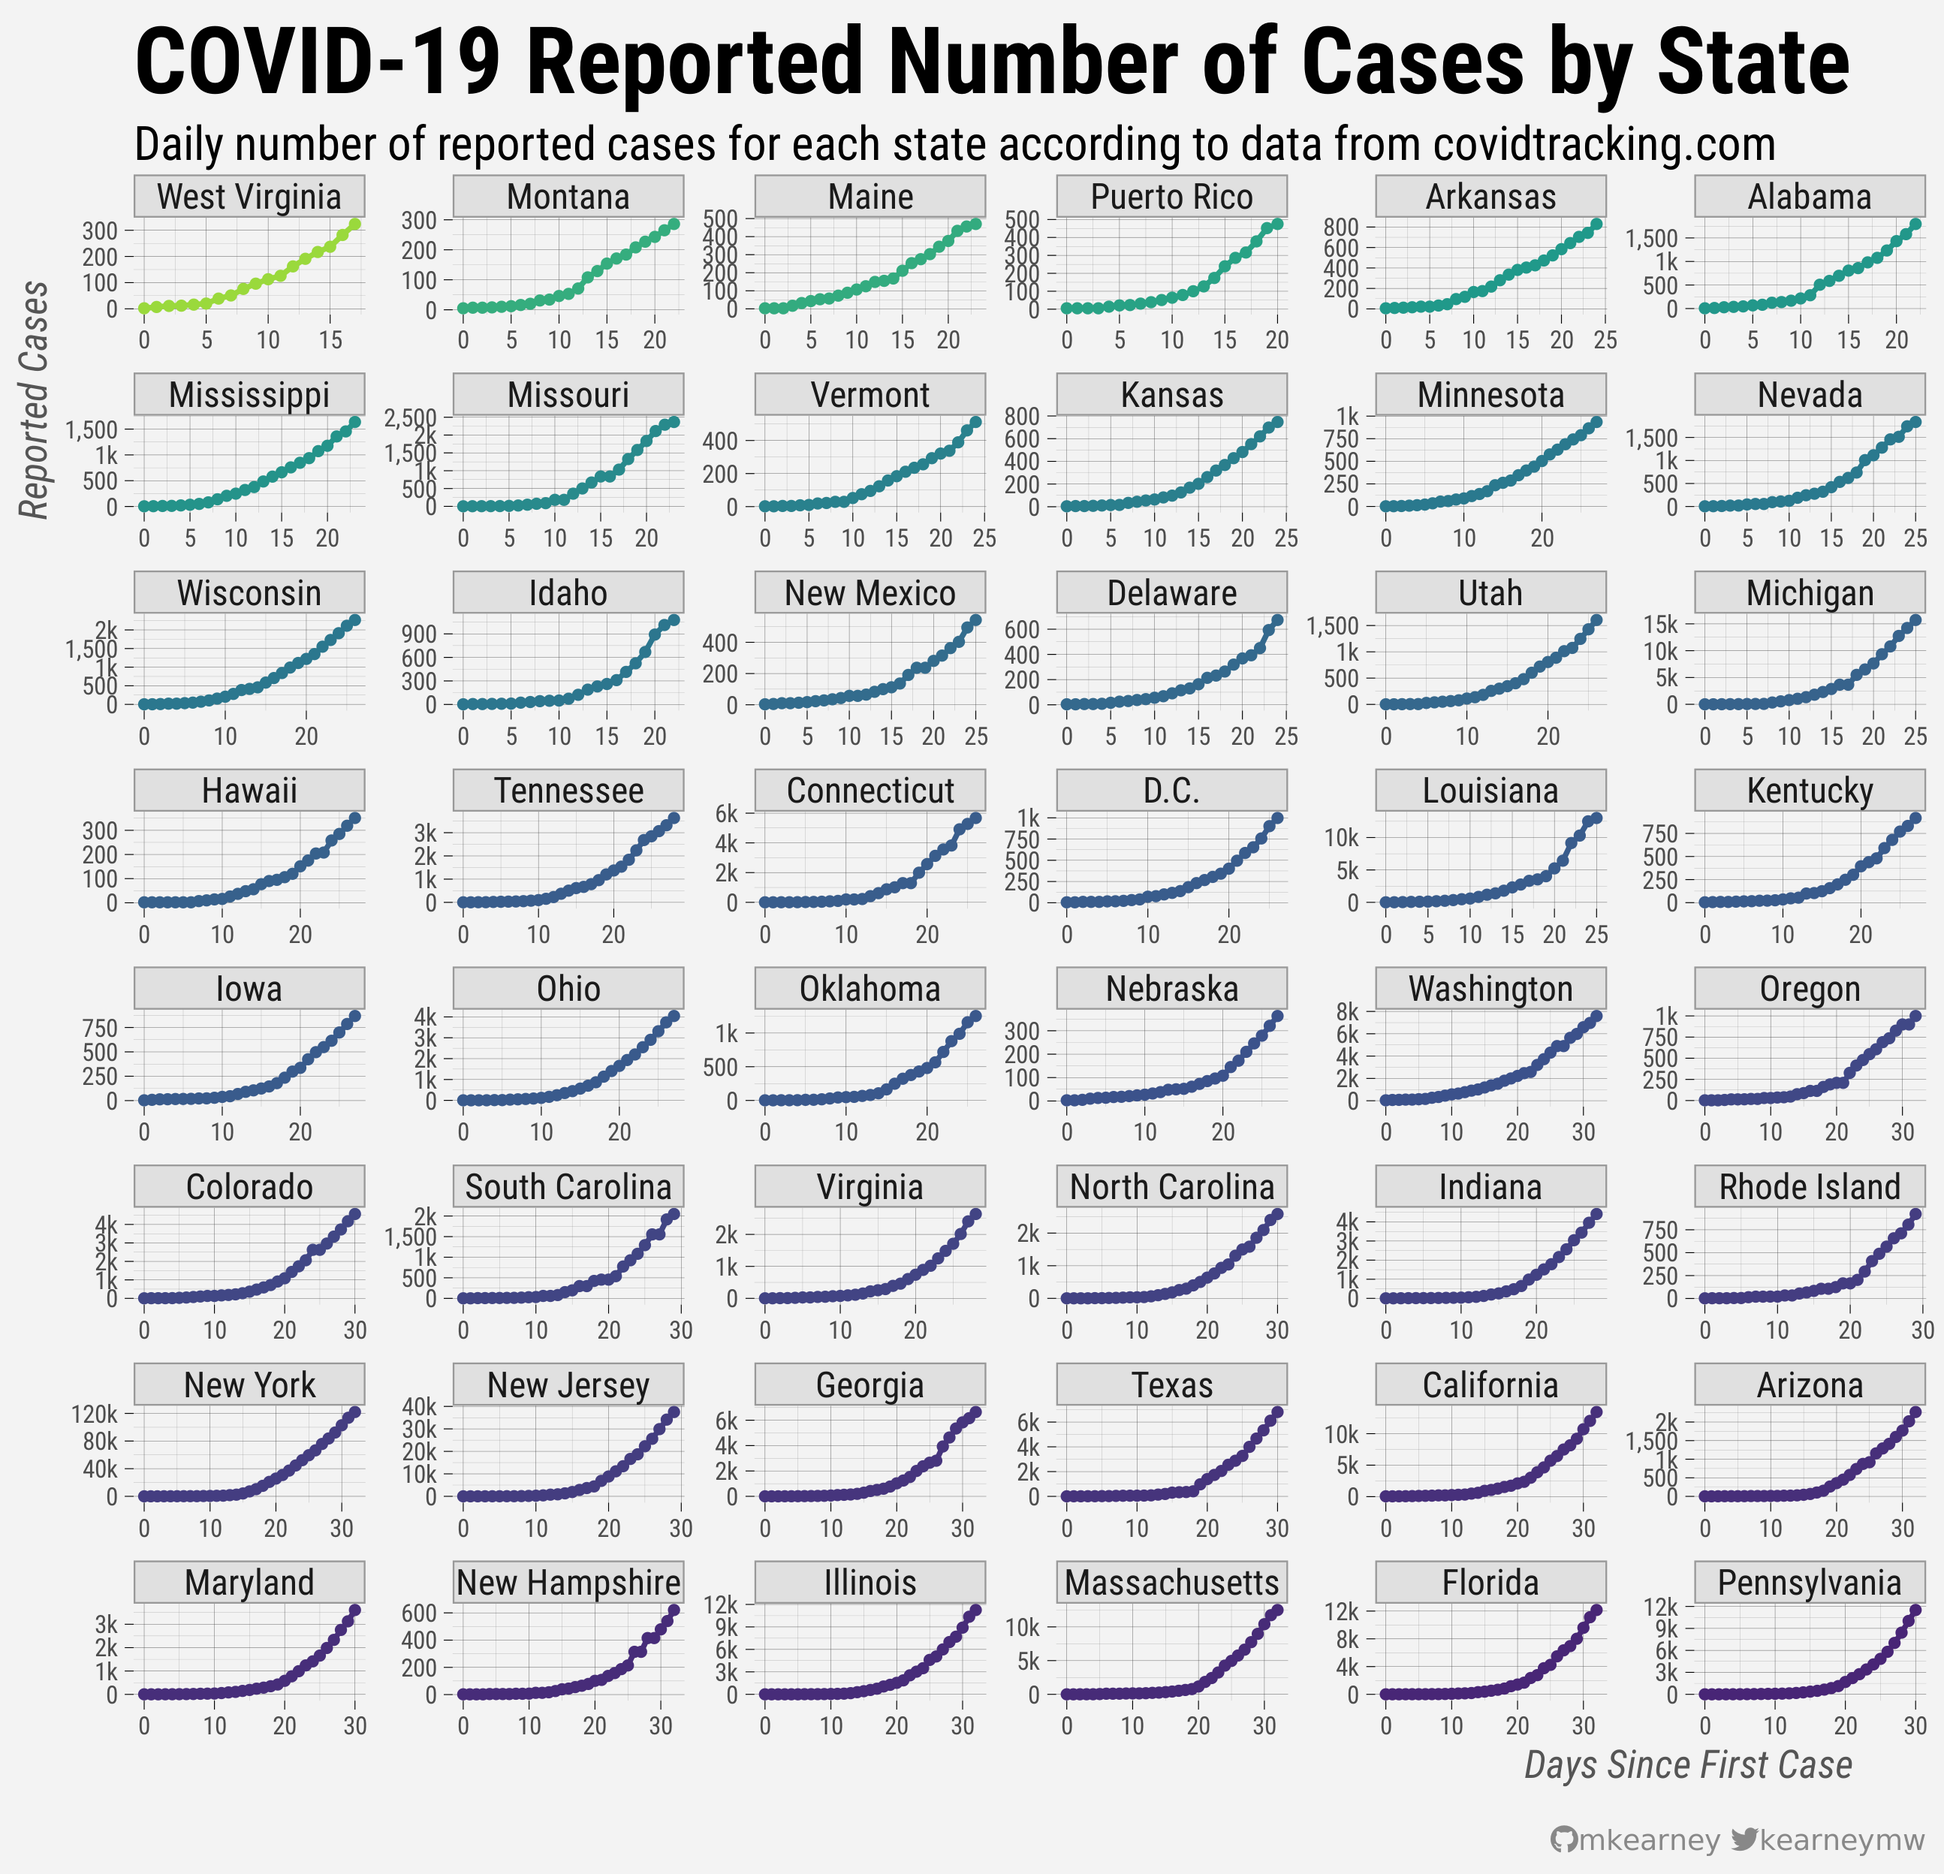
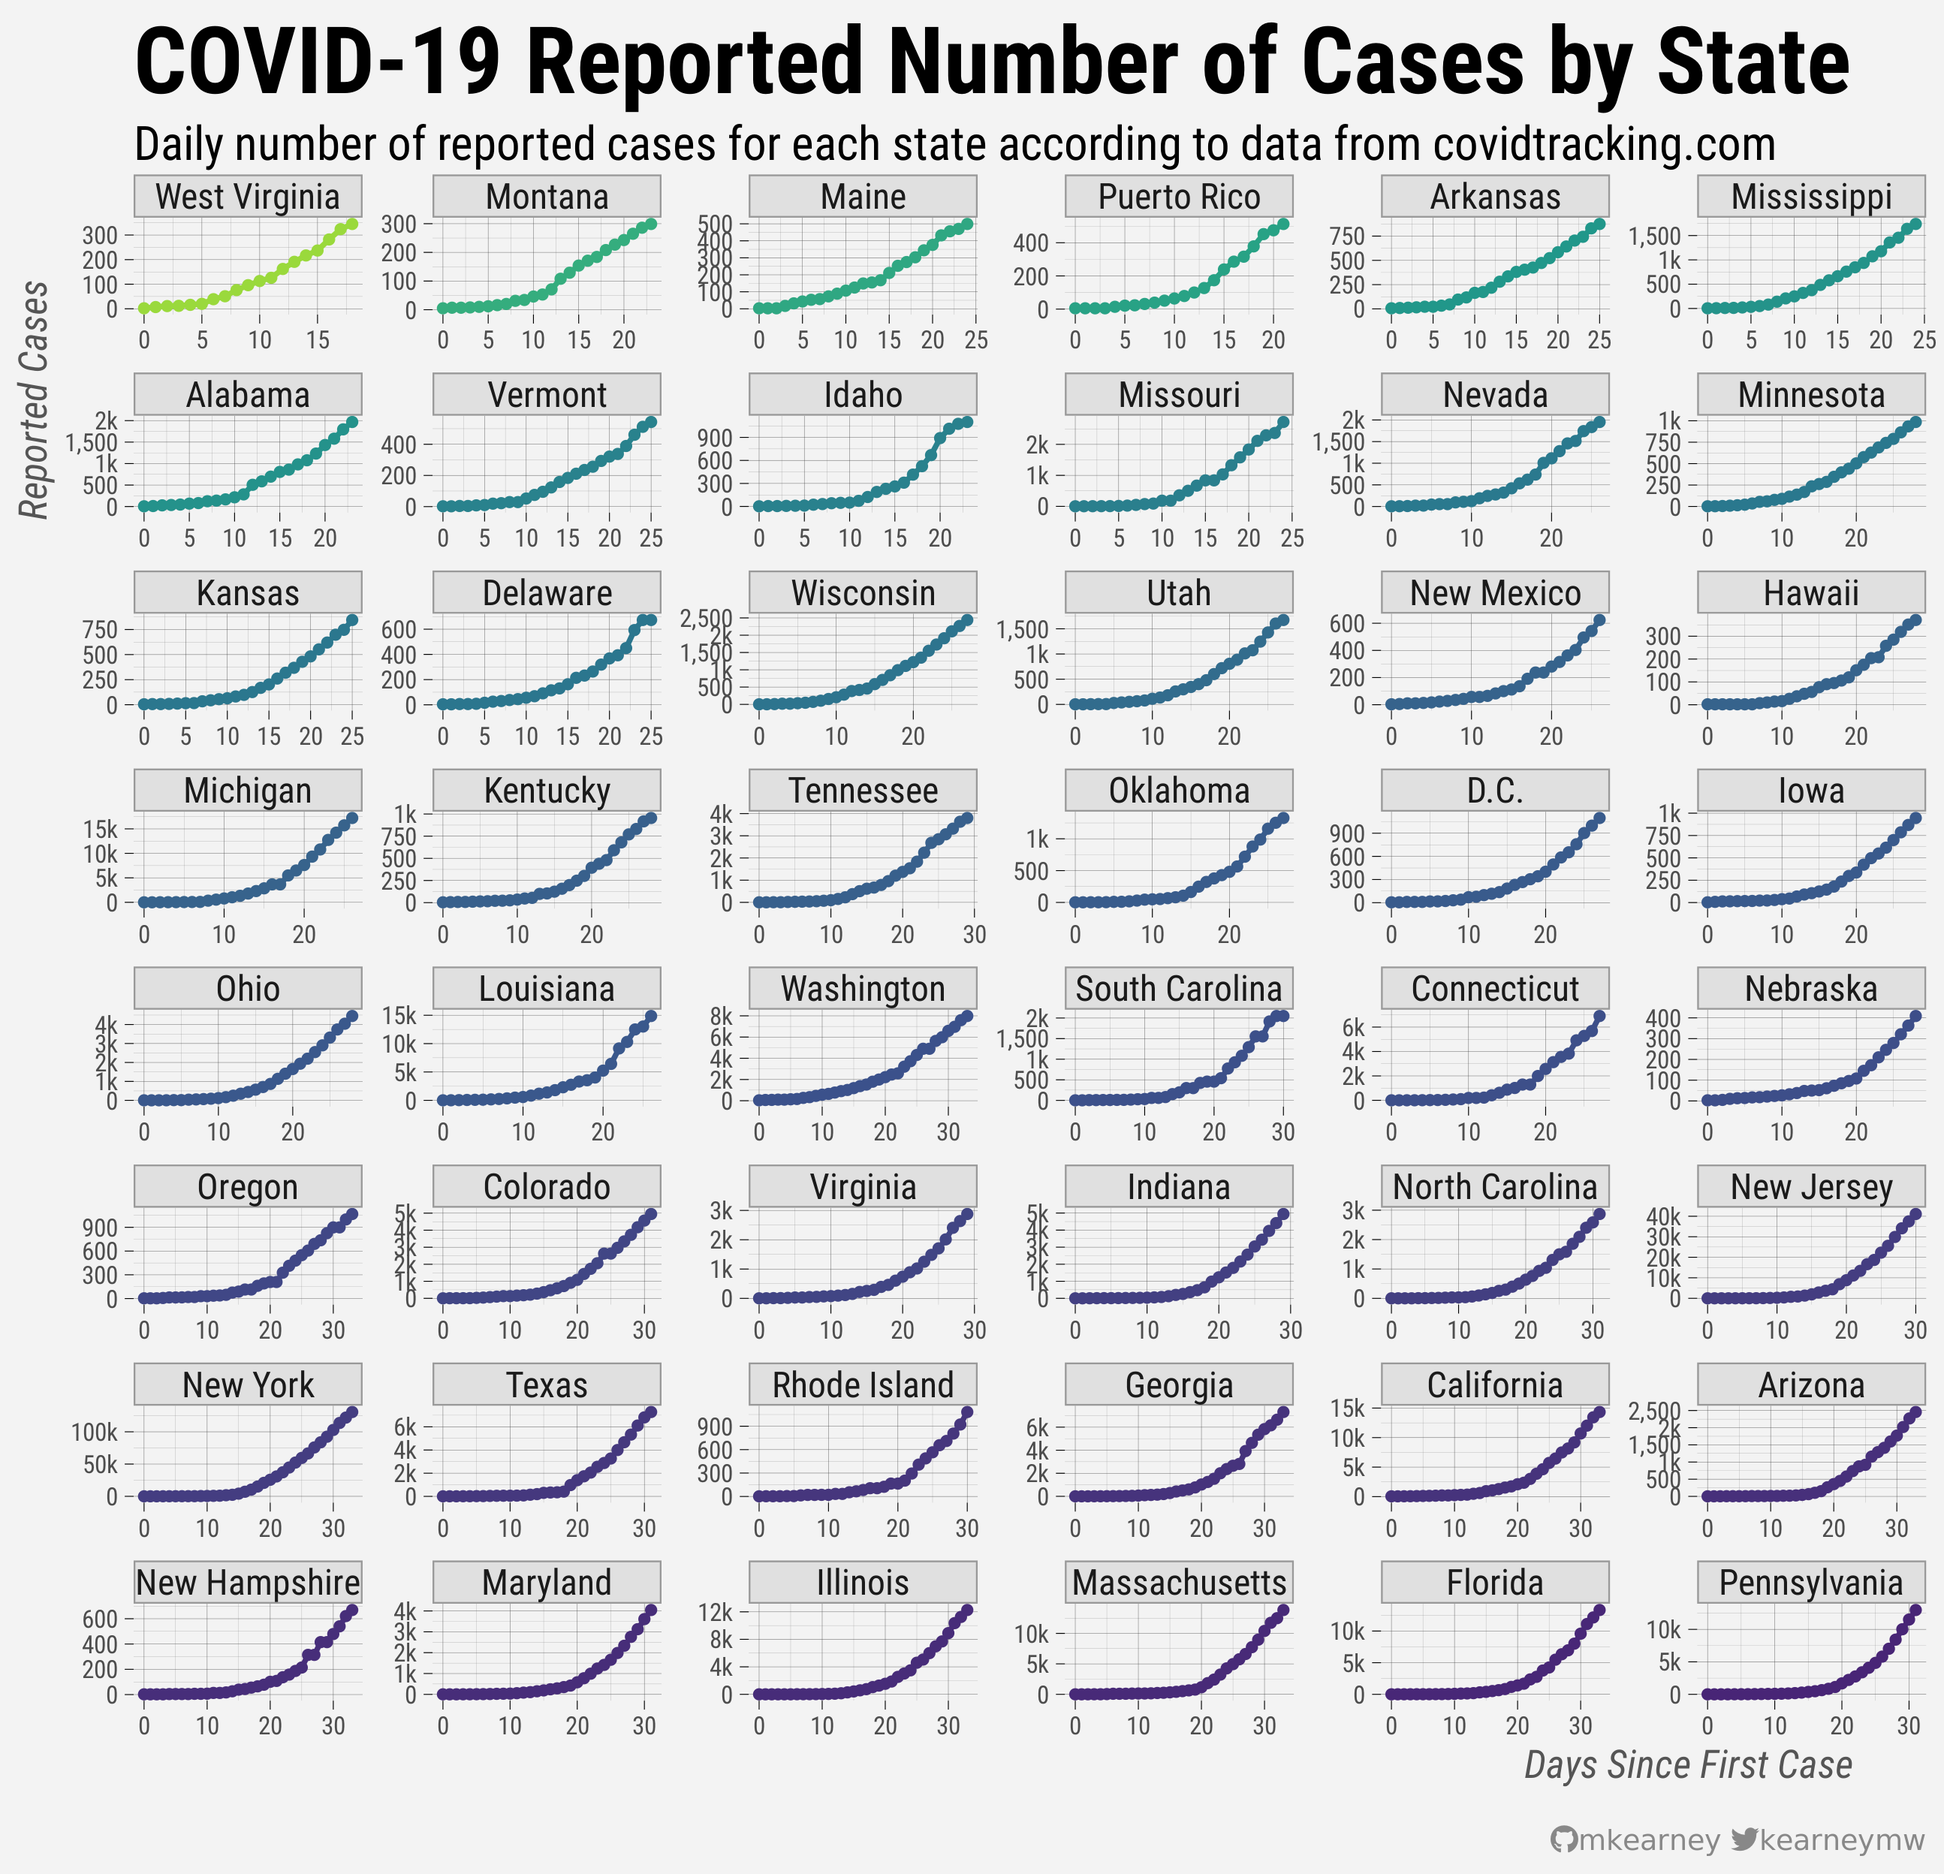
daily cron update

Changed region(s): [[0.0309, 0.0938, 1.0, 0.9375], [0.0309, 0.2188, 0.0618, 0.2812], [0.9888, 0.6875, 1.0, 0.7188]]

diff --git a/README.md b/README.md
@@ -87,16 +87,16 @@ grouped by similar endpoints and included below.
     #> # A tibble: 56 x 29
     #>    state positive positive_score negative_score negative_regula…
     #>    <chr>    <int>          <int>          <int>            <int>
-    #>  1 AK         185              1              1                1
-    #>  2 AL        1842              1              1                0
-    #>  3 AR         854              1              1                1
-    #>  4 AZ        2269              1              1                0
-    #>  5 CA       13438              1              1                0
+    #>  1 AK         191              1              1                1
+    #>  2 AL        1968              1              1                0
+    #>  3 AR         875              1              1                1
+    #>  4 AZ        2456              1              1                0
+    #>  5 CA       14336              1              1                0
     #>  6 CO        4950              1              1                1
-    #>  7 CT        5675              1              1                1
-    #>  8 DC         998              1              1                1
+    #>  7 CT        6906              1              1                1
+    #>  8 DC        1097              1              1                1
     #>  9 DE         673              1              1                1
-    #> 10 FL       12350              1              1                1
+    #> 10 FL       13324              1              1                1
     #> # … with 46 more rows, and 24 more variables: commercial_score <int>,
     #> #   grade <chr>, score <int>, negative <int>, pending <int>,
     #> #   hospitalized_currently <int>, hospitalized_cumulative <int>,
@@ -114,20 +114,20 @@ grouped by similar endpoints and included below.
     
     ``` r
     covid19_states_daily()
-    #> # A tibble: 1,709 x 25
+    #> # A tibble: 1,765 x 25
     #>    date       state positive negative pending hospitalized_cu… hospitalized_cu…
     #>    <date>     <chr>    <int>    <int>   <int>            <int>            <int>
-    #>  1 2020-04-05 AK         185     6099      NA               NA               20
-    #>  2 2020-04-05 AL        1796    11282      NA               NA              231
-    #>  3 2020-04-05 AR         830    10412      NA               67              130
-    #>  4 2020-04-05 AS           0       20       6               NA               NA
-    #>  5 2020-04-05 AZ        2269    25141      NA               NA              310
-    #>  6 2020-04-05 CA       13438   103095   15000             2398               NA
-    #>  7 2020-04-05 CO        4565    19335      NA               NA              875
-    #>  8 2020-04-05 CT        5675    17595      NA             1142               NA
-    #>  9 2020-04-05 DC         998     5836      NA               NA               NA
-    #> 10 2020-04-05 DE         673     6321      NA              101               NA
-    #> # … with 1,699 more rows, and 18 more variables: in_icu_currently <int>,
+    #>  1 2020-04-06 AK         191     6692      NA               NA               23
+    #>  2 2020-04-06 AL        1968    12797      NA               NA              240
+    #>  3 2020-04-06 AR         875    11970      NA               74              130
+    #>  4 2020-04-06 AS           0       20      11               NA               NA
+    #>  5 2020-04-06 AZ        2456    30078      NA               NA              325
+    #>  6 2020-04-06 CA       14336   103095   15000             2509               NA
+    #>  7 2020-04-06 CO        4950    20823      NA               NA              924
+    #>  8 2020-04-06 CT        6906    19780      NA             1221               NA
+    #>  9 2020-04-06 DC        1097     6356      NA               NA               NA
+    #> 10 2020-04-06 DE         673     6321      NA              101               NA
+    #> # … with 1,755 more rows, and 18 more variables: in_icu_currently <int>,
     #> #   in_icu_cumulative <int>, on_ventilator_currently <int>,
     #> #   on_ventilator_cumulative <int>, recovered <int>, hash <chr>,
     #> #   date_checked <dttm>, death <int>, hospitalized <int>, total <int>,
@@ -149,7 +149,7 @@ grouped by similar endpoints and included below.
     #>  3 AR    https://www.he… https://ww… https://adem.ma… @adhpio All … TRUE  "Dat…
     #>  4 AS    http://www.sam… https://ww… https://www.fac… https:… No D… FALSE "Ame…
     #>  5 AZ    https://www.az… https://ww… <NA>             @azdhs  All … FALSE "Das…
-    #>  6 CA    https://www.cd… https://ww… https://www.cdp… @CAPub… Only… FALSE "Cal…
+    #>  6 CA    https://www.cd… https://ww… https://www.cdp… @CAPub… Only… FALSE "The…
     #>  7 CO    https://www.co… https://co… <NA>             @cdphe  Posi… FALSE "Neg…
     #>  8 CT    https://portal… https://po… <NA>             @ctdph  All … FALSE "Dat…
     #>  9 DC    https://corona… https://co… <NA>             @_DCHe… All … FALSE "Pos…
